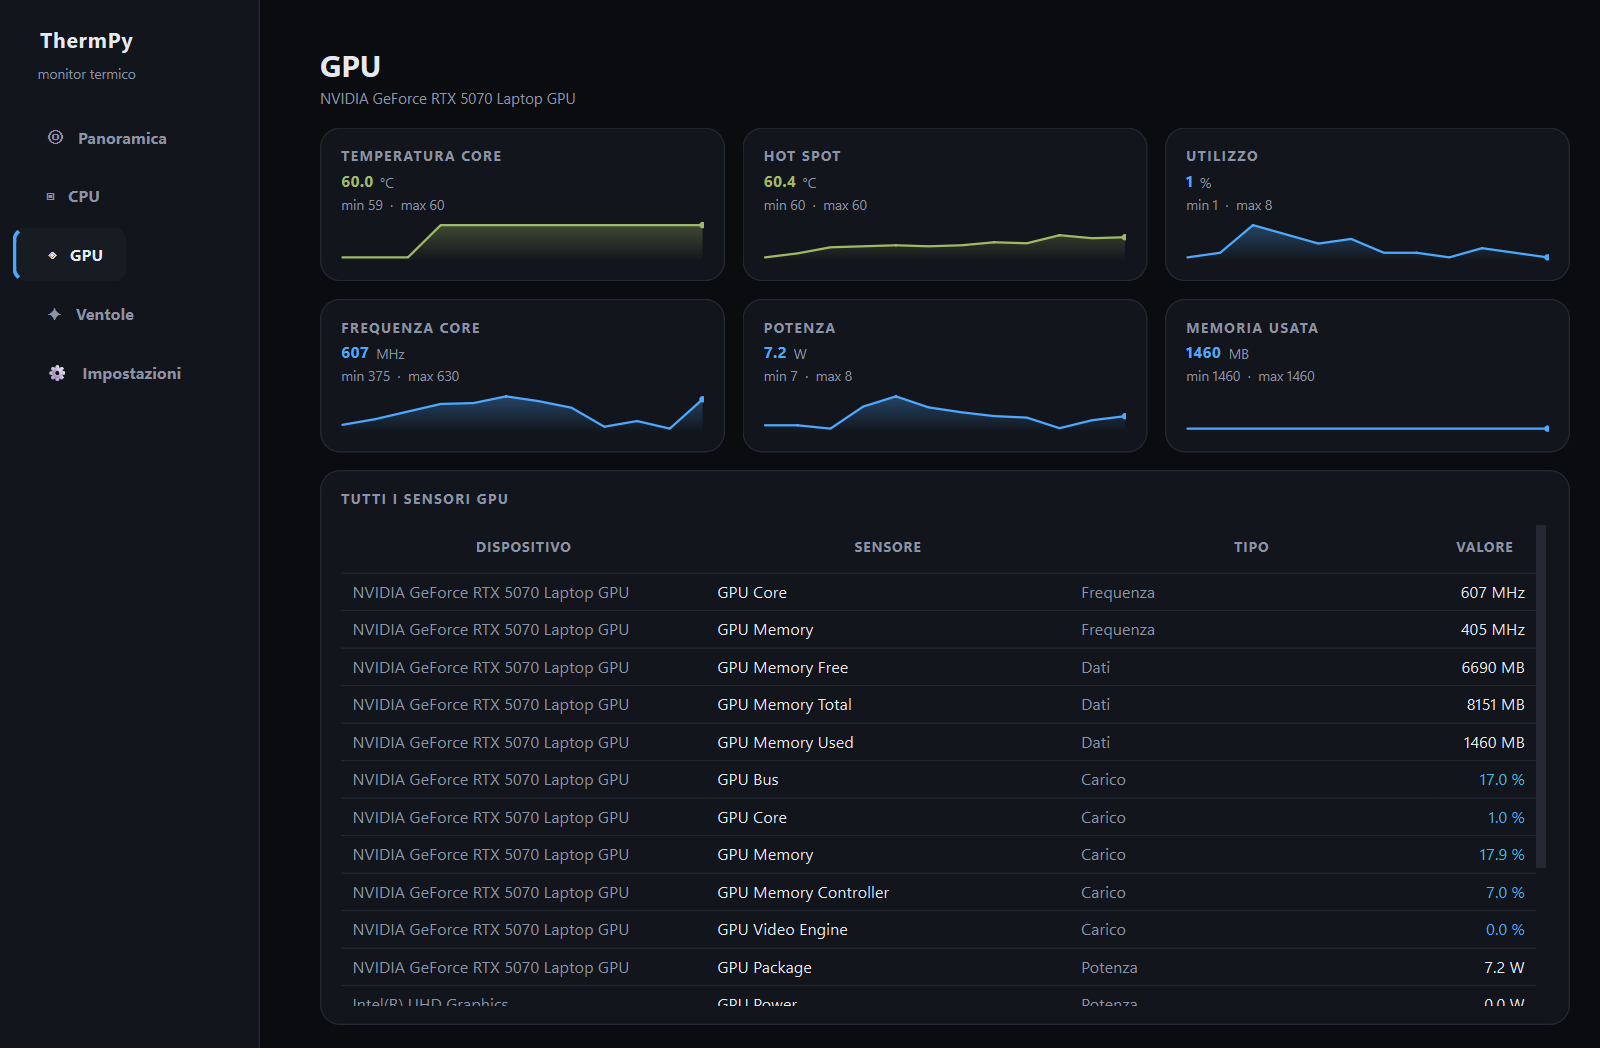
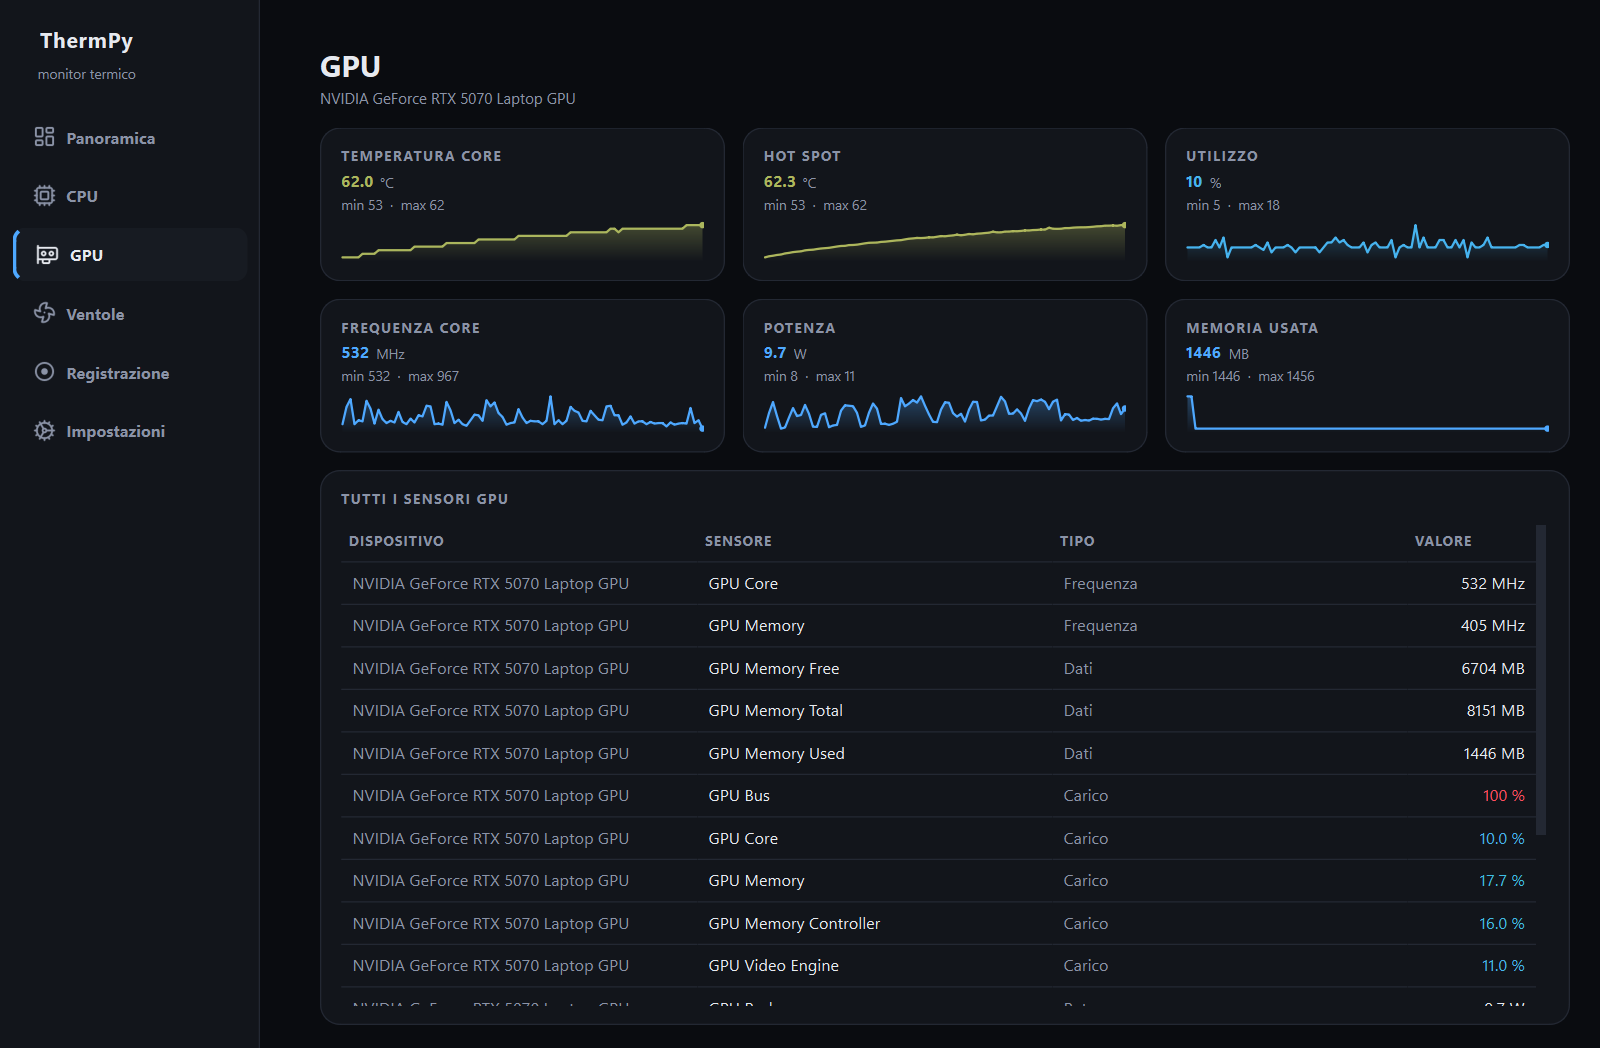
Refactor code structure for improved readability and maintainability

diff --git a/README.md b/README.md
@@ -8,12 +8,12 @@
 
 Temperature CPU per-core, GPU con hot spot, RPM delle ventole, frequenze, potenza
 assorbita, dischi e batteria — tutto in tempo reale, in una finestra sola.
+E un tasto **REC** che registra una sessione e la prepara per l'analisi.
 
-[![Scarica](https://img.shields.io/badge/scarica-ThermPy%201.0.0-2DD4BF?style=for-the-badge)](../../releases/latest)
+[![Scarica](https://img.shields.io/badge/scarica-ThermPy%201.1.0-2DD4BF?style=for-the-badge)](../../releases/latest)
 
 [![Licenza](https://img.shields.io/badge/licenza-gratuito-4EA8FF)](LICENSE)
 [![Piattaforma](https://img.shields.io/badge/piattaforma-Windows%2010%20%7C%2011-0078D4)](#requisiti)
-[![Installer](https://img.shields.io/badge/installer-22.7%20MB-8B93A7)](../../releases/latest)
 
 </div>
 
@@ -52,6 +52,41 @@ vuota che sembra un difetto.
 
 ![Ventole](screenshots/fans.png)
 
+## Registrazione
+
+Un tasto REC che registra una sessione e produce un archivio pensato per essere
+analizzato, anche da un modello di linguaggio.
+
+Il caso d'uso: stai sviluppando un programma, avvii la registrazione, lo usi
+esercitandone le funzioni, fermi e mandi il referto all'AI per capire dove si
+inceppa. Durante la registrazione **`Ctrl+Shift+M` inserisce un marcatore da
+qualunque applicazione**, senza tornare su ThermPy — che ruberebbe il focus al
+programma che stai misurando, alterando proprio ciò che vuoi misurare. Le
+etichette si scrivono alla fine.
+
+![Registrazione](screenshots/recording.png)
+
+### Cosa ricevi
+
+Un archivio con il referto e i dati grezzi separati, perché dieci minuti di
+campionamento sono decine di migliaia di valori: troppi da incollare in una chat.
+All'AI dai `report.md`, poche decine di kilobyte; i CSV restano per approfondire.
+
+Il referto non è un elenco di numeri. **Ogni intervallo fra due marcatori diventa
+una riga con le proprie statistiche**, ed è lì che il collo di bottiglia si vede:
+
+```
+| Marcatore              | Intervallo | Durata | Temp. CPU | Carico CPU | Clock CPU |
+| inizio carico pesante  | 4–16 s     |  12 s  |  69 / 75  |  74 / 90   | 2670/3204 |
+| apro la pagina clienti | 16–28 s    |  12 s  |  76 / 77  |  89 / 97   | 3204/3204 |
+```
+
+Più gli episodi di limitazione **con il motivo** — per la GPU decodificato dal
+driver: power cap software, rallentamento termico hardware, power brake — il
+processo che hai chiesto di sorvegliare con handle e context switch involontari,
+e una sezione che dichiara esplicitamente cosa non è stato misurabile, così
+nessuno scambia un dato assente per uno zero.
+
 ## Impostazioni
 
 Intervallo di campionamento, soglie di allerta, comportamento della tray e — la
@@ -64,7 +99,7 @@ dati, ciascuna con il proprio stato e il motivo.
 
 ## Installazione
 
-Scarica **[ThermPy-Setup-1.0.0.exe](../../releases/latest)** dalla pagina delle
+Scarica **[ThermPy-Setup-1.1.0.exe](../../releases/latest)** dalla pagina delle
 release ed eseguilo.
 
 ![Installer](screenshots/installer.png)
@@ -83,11 +118,11 @@ quello sul desktop, e registra la voce di disinstallazione in "App installate".
 ### Verifica del file scaricato
 
 ```
-SHA256: bfccbb78d786701fbc57fdcbbfcaa019669c0ae183e0d1a34ce494a64abd51b2
+SHA256: 48b91aa2aca048b49b880d025e8a1ba71477db540db852c8ded85a87c4ac2b26
 ```
 
 ```powershell
-Get-FileHash ThermPy-Setup-1.0.0.exe -Algorithm SHA256
+Get-FileHash ThermPy-Setup-1.1.0.exe -Algorithm SHA256
 ```
 
 ---
@@ -178,5 +213,5 @@ configurazione dopo una reinstallazione. Si cancellano a mano se non servono.
 ---
 
 <div align="center">
-<sub>ThermPy 1.0.0 · gratuito · Qt sotto LGPL-3.0</sub>
+<sub>ThermPy 1.1.0 · gratuito · Qt sotto LGPL-3.0</sub>
 </div>

diff --git a/RELEASE-NOTES.md b/RELEASE-NOTES.md
@@ -1,33 +1,54 @@
-# ThermPy 1.0.0
+# ThermPy 1.1.0
 
-Prima versione pubblica.
+Arriva la **registrazione di sessione**: un tasto REC che raccoglie tutto quello
+che succede mentre usi il computer e lo prepara per l'analisi, anche da parte di
+un modello di linguaggio.
 
-## Cosa fa
+## Novità
 
-Monitor termico per Windows che mostra in tempo reale tutto ciò che l'hardware
-espone: temperature CPU per-core e di package, temperature GPU comprese quelle di
-hot spot, velocità delle ventole, frequenze, potenza assorbita, memoria video,
-dischi e batteria.
+### Registrazione
 
-- **Panoramica** con due gauge e le metriche chiave, ciascuna col proprio andamento
-- **CPU** con heatmap per-core e carico per thread
-- **GPU** con core, hot spot, clock, potenza e VRAM
-- **Ventole** con RPM correnti e storico
-- **Impostazioni** con intervallo di campionamento, soglie di allerta e diagnostica
-  delle sorgenti dati
-- Icona nella tray che mostra la temperatura corrente
-- Alert con isteresi, così non lampeggiano quando la temperatura oscilla attorno
-  alla soglia
+Avvii la registrazione, usi il tuo software esercitandone le funzioni, fermi e
+ottieni un archivio da consegnare a un'AI per capire dove si inceppa.
+
+- **`Ctrl+Shift+M` da qualunque applicazione** inserisce un marcatore, senza dover
+  tornare su ThermPy — che ruberebbe il focus al programma che stai misurando
+- Puoi indicare un **processo da sorvegliare**: viene seguito a ogni campione anche
+  quando consuma poco, così non sparisce dalla classifica proprio mentre è bloccato
+- L'archivio contiene un referto compatto (`report.md`), i campioni dei sensori e
+  dei processi in CSV e i metadati in JSON
+
+Il referto non è un elenco di numeri: ogni intervallo fra due marcatori diventa
+una riga con le proprie statistiche, e accanto ci sono gli episodi di limitazione
+con il motivo, il processo sorvegliato con handle e context switch involontari, e
+una sezione che dichiara cosa non è stato misurabile.
+
+### Interfaccia
+
+- Icone di navigazione ridisegnate ([Lucide](https://lucide.dev))
+- Tabelle uniformate: stesse altezze, intestazioni allineate al contenuto
+- L'icona nella tray mostra **CPU e GPU insieme** sugli schermi con scalatura attiva
+- La finestra non nasce più più alta dello schermo disponibile
+
+## Correzioni
+
+- I sensori che comparivano a metà registrazione avevano i valori disallineati nel
+  tempo nell'esportazione CSV
+- Il campionamento dei processi non stava al passo con l'intervallo richiesto:
+  ora avviene in due fasi e produce dieci volte più campioni
+- *System Idle Process* non compare più fra i processi attivi
 
 ## Installazione
 
-Scarica ed esegui `ThermPy-Setup-1.0.0.exe`. Richiede Windows 10 o 11 a 64 bit.
+Scarica ed esegui `ThermPy-Setup-1.1.0.exe`. Richiede Windows 10 o 11 a 64 bit.
 Non serve installare Python, Qt o il runtime .NET: sono già inclusi.
 
 **ThermPy chiede i privilegi di amministratore.** Non è una comodità: su Windows
 le temperature per-core della CPU si leggono dagli MSR del processore e gli RPM
 delle ventole dall'Embedded Controller, e a entrambi si accede solo tramite un
 driver in modalità kernel.
+
+Se hai già la 1.0.0, l'installer la aggiorna mantenendo le preferenze.
 
 ## Note
 
@@ -48,6 +69,6 @@ installazione.
 ## Verifica del file
 
 ```
-ThermPy-Setup-1.0.0.exe
-SHA256: bfccbb78d786701fbc57fdcbbfcaa019669c0ae183e0d1a34ce494a64abd51b2
+ThermPy-Setup-1.1.0.exe
+SHA256: 48b91aa2aca048b49b880d025e8a1ba71477db540db852c8ded85a87c4ac2b26
 ```

diff --git a/THIRD-PARTY.md b/THIRD-PARTY.md
@@ -12,6 +12,7 @@ integrali sono nella cartella [`licenses/`](licenses/).
 | [pythonnet](https://github.com/pythonnet/pythonnet) | MIT | Ponte fra Python e runtime .NET |
 | [psutil](https://github.com/giampaolo/psutil) | BSD-3-Clause | Carichi, frequenze, memoria, batteria |
 | [nvidia-ml-py](https://pypi.org/project/nvidia-ml-py/) | BSD | Accesso a NVML per le GPU NVIDIA |
+| [Lucide](https://lucide.dev) | ISC | Icone della barra di navigazione |
 | [CPython](https://www.python.org/) | PSF License | Interprete incorporato |
 
 ---
